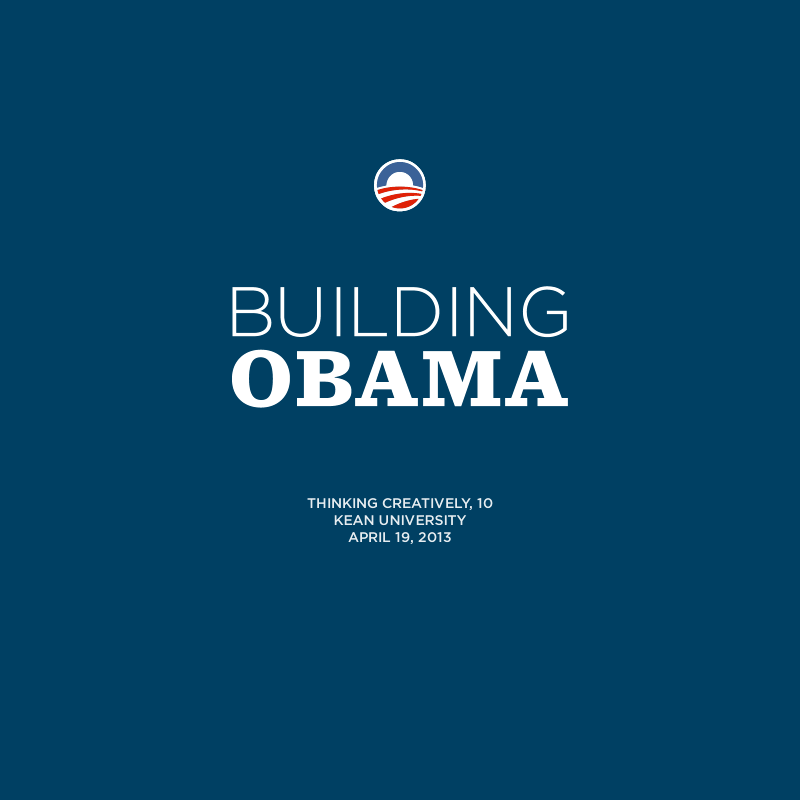
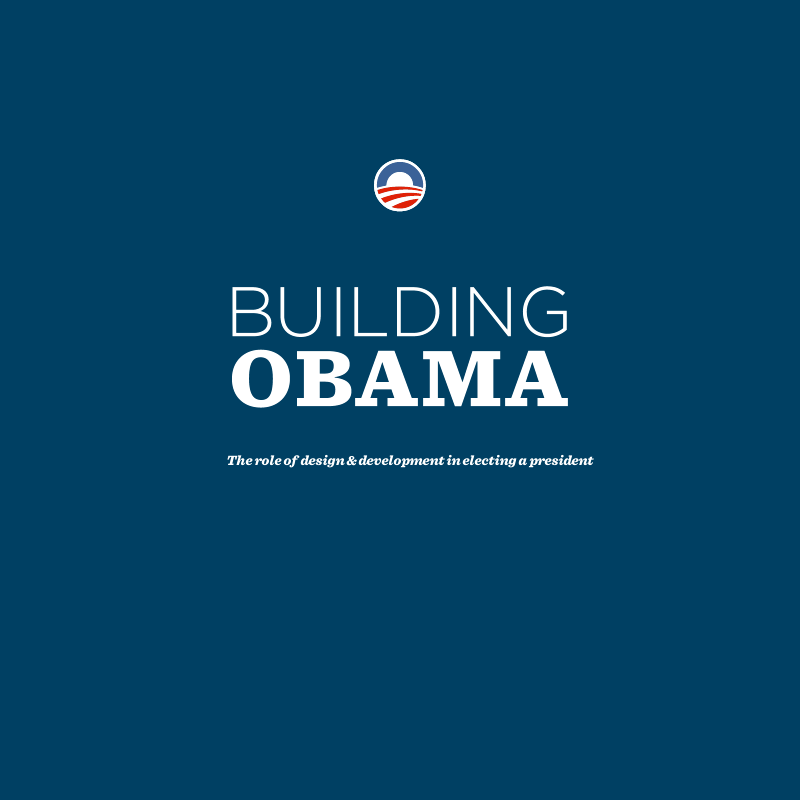
saved design and removed period after subtitle

Changed region(s): [[0.2812, 0.5625, 0.75, 0.5938], [0.375, 0.625, 0.625, 0.6875]]

diff --git a/2013/20130419 - Thinking Creatively 10/Presentation/index.html b/2013/20130419 - Thinking Creatively 10/Presentation/index.html
@@ -22,8 +22,7 @@
 </head>
 <body class="impress-not-supported">
 <div class="fallback-message">
-    <p>Your browser <b>doesn't support the features required</b> by impress.js, so you are presented with a simplified version of this presentation.</p>
-    <p>For the best experience please use the latest <b>Chrome</b>, <b>Safari</b> or <b>Firefox</b> browser.</p>
+    <p>Unsupported</p>
 </div>
 
 <div id="impress">
@@ -33,7 +32,7 @@
         <h1 class="large heading combo first">Building</h1>
         <h1 class="large heading serif combo">Obama</h1>
         
-        <p class="subtitle">The Role of Design &amp; Development in Electing a President.</p>
+        <p class="subtitle">The Role of Design &amp; Development in Electing a President</p>
 
     </div>
     
@@ -47,29 +46,12 @@
         
     </div>
     
-    <div id="obama" class="step slide" data-x="1000" data-y="-1500">
-        <p>I was just in Chicago </p>
-        
-        <div class="divider">
-            <hr class="left"/>for a year<hr class="right" />
-        </div>
-        <p>working for the President</p>
-    </div>
 
     <div id="we-won" class="step slide" data-x="2000" data-y="-1500">
         <h1 class="medium">And we won.</h1>
         <img src="http://i37.photobucket.com/albums/e59/beyster/brush.gif" alt="potus">
     </div>
     
-    <div id="at-kean" class="step slide" data-x="3000" data-y="-1000">
-        <h1 class="medium">At Kean:</h1>
-        <p>Started with Graphic Design &amp; Print</p>
-        <p>Tried Advertising</p>
-        <p>And Copywriting</p>
-        <p>And Industrial Design</p>
-        <p>And Production Design</p>
-        <p>And Web</p>
-    </div>
 
     
     <div id="at-OFA" class="step slide" data-x="4000" data-y="-1000">
